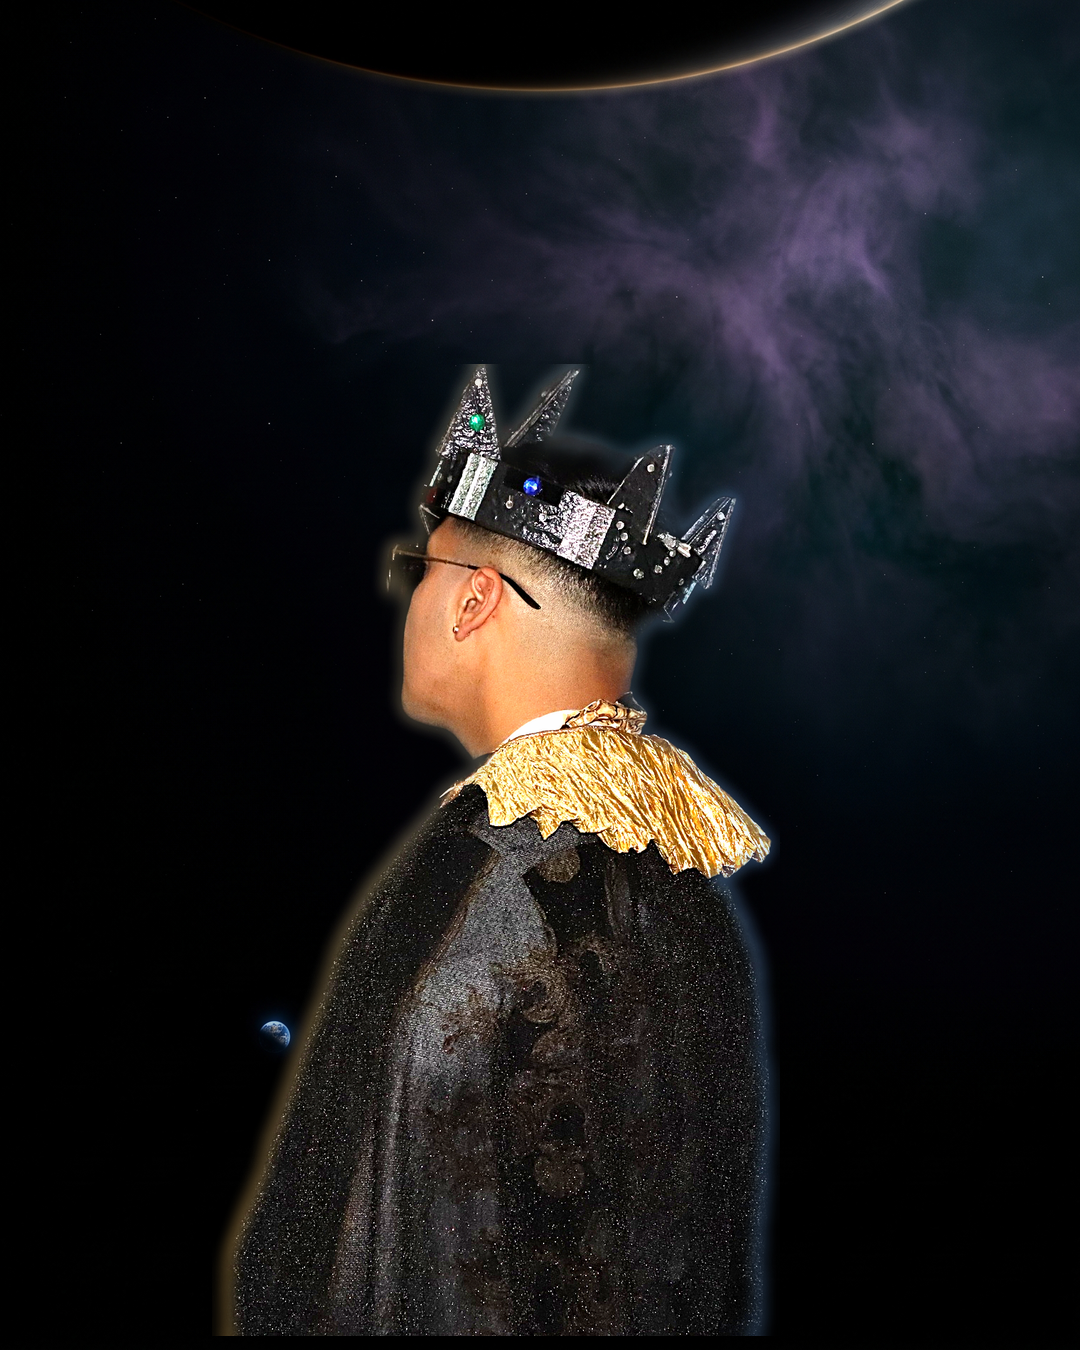
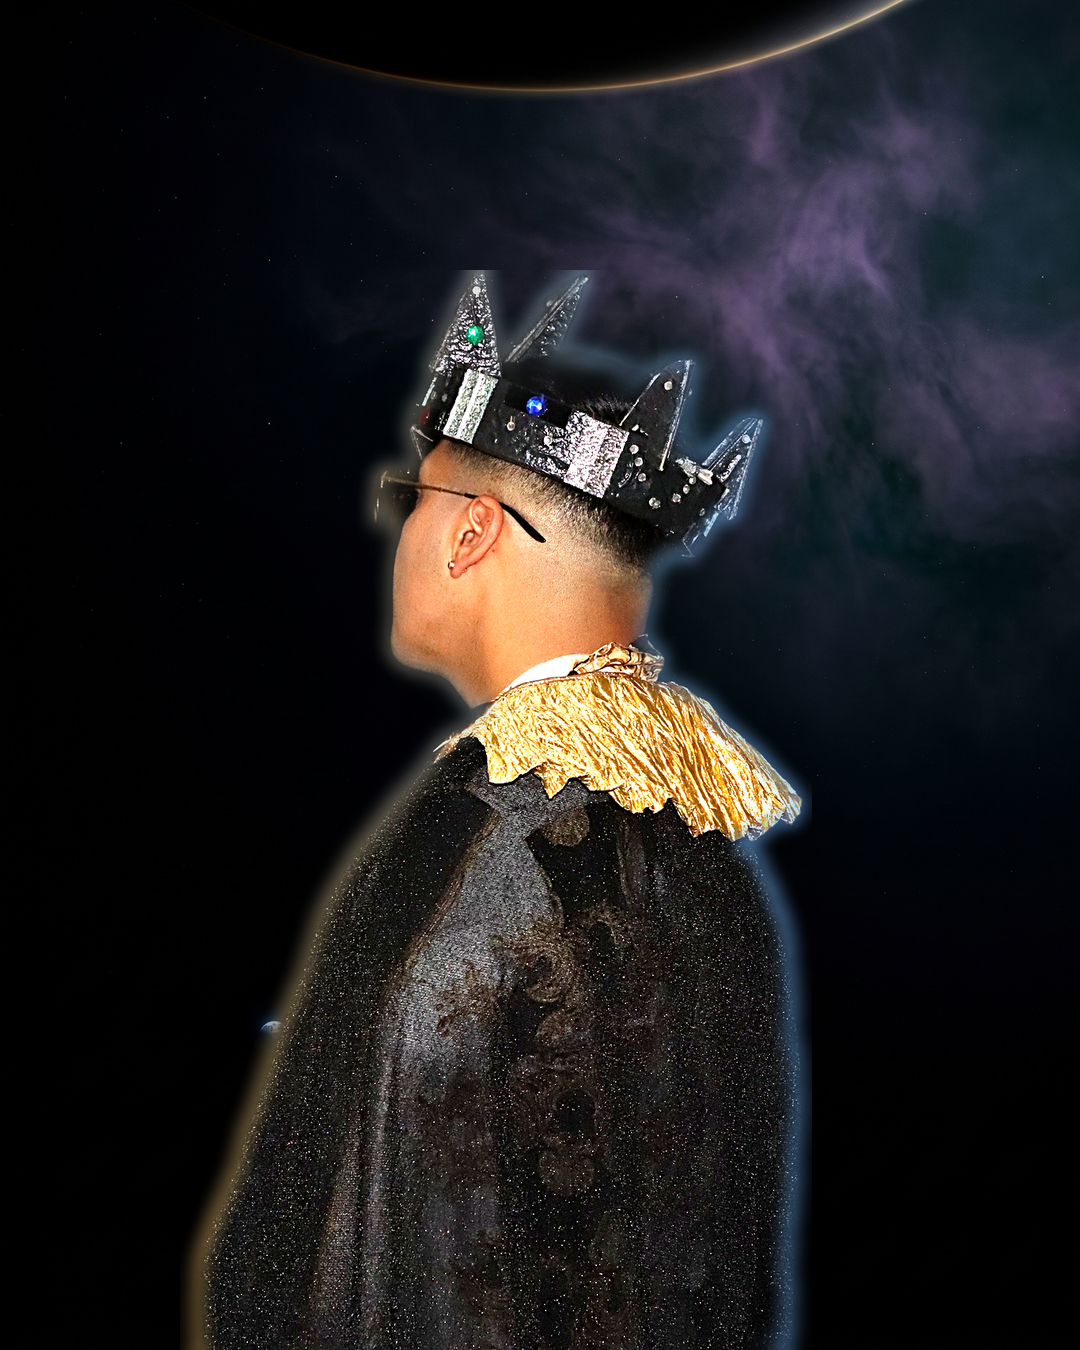
Fija el estilo aprobado de World King y da ritmo al feed
Se consolida la dirección que aprobó el cliente: negro dominante,
nebulosa apenas insinuada, y luz de estudio de dos fuentes — rim dorado
cálido por la izquierda y azul frío por la derecha, con el azul algo más
fuerte. El sujeto va grande, con la cara en el tercio superior.

La lógica de composición sale de build.js a componer.py, para poder
regenerar todas las piezas con el mismo tratamiento sin tocar el
generador de gráficas.

En la grilla la misma foto aparecía en cuatro piezas seguidas. Ahora
cada post lleva su propia imagen y el feed alterna artista y espacio,
con fondos sin figura que dan respiro entre los retratos.

Vuelve el copy aprobado en la pieza de llegada.

Changed region(s): [[0.1528, 0.1867, 0.7639, 1.0]]

diff --git a/produccion-contenido/clientes/world-king/graficas/build.js b/produccion-contenido/clientes/world-king/graficas/build.js
@@ -62,15 +62,15 @@ const piezas = [
     tipo: 'hero',
     imagen: 'wk-retrato.png',
     sobre: 'TRANSMISIÓN DESDE LA EXÓSFERA',
-    titulo: 'VENGO DE<br><span class="oro">MÁS LEJOS</span>',
-    texto: 'De lo que te imaginas.<br>Y crucé todo eso por esto.',
+    titulo: 'NO SOY<br><span class="oro">DE ACÁ</span>',
+    texto: 'Bajé a traer algo que todavía no existe.',
     pie: `${EP} · ${FECHA_LANZAMIENTO}`,
   },
   {
     id: 'post-02-genero-nuevo',
     w: 1080, h: 1350,
     tipo: 'hero',
-    imagen: 'fondo-espacio.png',
+    imagen: 'fondo-ondas.png',
     sobre: 'LO QUE TRAIGO',
     titulo: 'UN SONIDO<br><span class="oro">QUE NO ES<br>DE ACÁ</span>',
     texto: 'Reguetón old school y percusión afro en vivo.<br>Nunca lo escuchaste así.',
@@ -80,7 +80,7 @@ const piezas = [
     id: 'post-03-sonido',
     w: 1080, h: 1350,
     tipo: 'espectro',
-    imagen: 'fondo-espacio.png',
+    imagen: 'fondo-estelar.png',
     titulo: 'SONIDOS<br><span class="oro">TR<span class="tres">3</span>E</span><br>DIMENSIONAL',
     texto: 'Ponte los audífonos.<br>El sonido te da la vuelta.',
     pie: FORMATO_AUDIO,
@@ -167,7 +167,7 @@ const piezas = [
     id: 'reel-03-frecuencias',
     w: 1080, h: 1920,
     tipo: 'reel',
-    imagen: 'fondo-story.png',
+    imagen: 'wk-story-cetro.png',
     n: '03',
     sobre: 'FRECUENCIAS ANÓMALAS',
     titulo: 'NO<br><span class="oro">SOY</span><br>HUMANO',
@@ -177,7 +177,7 @@ const piezas = [
     id: 'reel-04-transmision',
     w: 1080, h: 1920,
     tipo: 'reel',
-    imagen: 'fondo-espacio.png',
+    imagen: 'wk-terrestre-story.png',
     n: '04',
     sobre: 'TRANSMISIÓN DIRECTA',
     titulo: 'SINCRONIZA<br><span class="oro">TU FRECUENCIA</span>',
@@ -189,7 +189,7 @@ const piezas = [
     id: 'historia-02-pregunta',
     w: 1080, h: 1920,
     tipo: 'historia',
-    imagen: 'exo-pregunta.png',
+    imagen: 'fondo-story.png',
     sobre: 'CAJA DE INTERACCIÓN',
     titulo: '¿QUÉ<br><span class="oro">MENSAJE</span><br>ME LLEVO?',
     texto: 'De la Tierra a la exósfera.',
@@ -200,7 +200,7 @@ const piezas = [
     id: 'historia-03-bts',
     w: 1080, h: 1920,
     tipo: 'historia',
-    imagen: 'exo-estudio.png',
+    imagen: 'fondo-story.png',
     sobre: 'DETRÁS DE LA SEÑAL',
     titulo: 'ASÍ<br><span class="oro">SUENA</span><br>ADENTRO',
     texto: `${FORMATO_AUDIO}`,
@@ -211,7 +211,7 @@ const piezas = [
     id: 'historia-04-outfit',
     w: 1080, h: 1920,
     tipo: 'historia',
-    imagen: 'detalle-corona.png',
+    imagen: 'wk-story-cetro.png',
     sobre: 'ANATOMÍA DEL EQUIPO',
     titulo: 'LA<br><span class="oro">CORONA</span>',
     texto: 'Equipado para la gravedad terrestre.',
@@ -222,7 +222,7 @@ const piezas = [
     id: 'historia-04b-outfit-ankh',
     w: 1080, h: 1920,
     tipo: 'historia',
-    imagen: 'detalle-ankh.png',
+    imagen: 'wk-terrestre-story.png',
     sobre: 'ANATOMÍA DEL EQUIPO',
     titulo: 'EL<br><span class="oro">ANKH</span>',
     texto: 'Vida eterna. No es adorno.',
@@ -233,7 +233,7 @@ const piezas = [
     id: 'historia-05-invocacion',
     w: 1080, h: 1920,
     tipo: 'historia',
-    imagen: 'exo-vinilo.png',
+    imagen: 'fondo-story.png',
     sobre: 'INVOCACIÓN EN VIVO',
     titulo: 'DALE<br><span class="oro">PLAY</span>',
     texto: `${SINGLE} · ya disponible`,

diff --git a/produccion-contenido/clientes/world-king/componer.py b/produccion-contenido/clientes/world-king/componer.py
@@ -1,0 +1,97 @@
+#!/usr/bin/env python3
+"""
+Compositor de World King — ESTILO APROBADO.
+
+Recorta al artista de sus fotos de estudio y lo pone sobre fondo espacial con
+la firma lumínica de la marca: rim DORADO cálido por la izquierda, AZUL frío
+por la derecha, sobre negro dominante con nebulosa apenas insinuada.
+
+  python3 componer.py
+"""
+from PIL import Image, ImageFilter, ImageEnhance, ImageChops
+
+V, F = 'visuales/', 'fotos/'
+
+# Firma lumínica de la marca. Cambiar esto cambia el look de todas las piezas.
+LUZ_CALIDA = (255, 198, 104)
+LUZ_FRIA   = (108, 178, 255)
+FUERZA_CALIDA, FUERZA_FRIA = 140, 165   # el rim azul manda, como en la referencia
+
+
+def sin_bandas(im):
+    """El generador a veces devuelve letterbox blanco; se recorta."""
+    g = im.convert('L'); w, h = g.size; px = g.load()
+    paso_x = max(1, w // 60); paso_y = max(1, h // 60)
+    clara_fila = lambda y: sum(px[x, y] for x in range(0, w, paso_x)) / len(range(0, w, paso_x)) > 232
+    clara_col  = lambda x: sum(px[x, y] for y in range(0, h, paso_y)) / len(range(0, h, paso_y)) > 232
+    t = 0
+    while t < h - 1 and clara_fila(t): t += 1
+    b = h - 1
+    while b > t and clara_fila(b): b -= 1
+    l = 0
+    while l < w - 1 and clara_col(l): l += 1
+    r = w - 1
+    while r > l and clara_col(r): r -= 1
+    return im.crop((l, t, r + 1, b + 1))
+
+
+def realzar(fg):
+    """Las fotos de estudio vienen subexpuestas: se levantan sin saturar."""
+    rgb, a = fg.convert('RGB'), fg.split()[3]
+    rgb = ImageEnhance.Brightness(rgb).enhance(1.32)
+    rgb = ImageEnhance.Contrast(rgb).enhance(1.20)
+    rgb = ImageEnhance.Color(rgb).enhance(1.05)
+    rgb = rgb.filter(ImageFilter.UnsharpMask(3, 62, 3))
+    o = rgb.convert('RGBA'); o.putalpha(a); return o
+
+
+def luz_borde(fg, color, lado, fuerza):
+    """Rim light: el contorno recibe la luz de la escena y deja de verse recortado."""
+    a = fg.split()[3]
+    b = ImageChops.subtract(a, a.filter(ImageFilter.MinFilter(11)))
+    b = b.filter(ImageFilter.GaussianBlur(10)).point(lambda v: min(255, int(v * fuerza / 100)))
+    capa = Image.new('RGBA', fg.size, color + (0,)); capa.putalpha(b)
+    g = Image.linear_gradient('L').rotate(90, expand=True).resize(fg.size)
+    if lado == 'izq': g = g.transpose(Image.FLIP_LEFT_RIGHT)
+    capa.putalpha(ImageChops.multiply(capa.split()[3], g))
+    return Image.alpha_composite(fg, capa)
+
+
+def componer(fondo, recorte, salida, W=1080, H=1350, escala=.9, dx=.5, dy=1.0):
+    bg = sin_bandas(Image.open(V + fondo).convert('RGBA'))
+    r = max(W / bg.width, H / bg.height)
+    bg = bg.resize((int(bg.width * r), int(bg.height * r)), Image.LANCZOS)
+    bg = bg.crop(((bg.width - W) // 2, (bg.height - H) // 2,
+                  (bg.width - W) // 2 + W, (bg.height - H) // 2 + H))
+
+    fg = Image.open(F + recorte).convert('RGBA')
+    fg = realzar(fg.crop(fg.getbbox()))
+    fg = luz_borde(fg, LUZ_CALIDA, 'izq', FUERZA_CALIDA)
+    fg = luz_borde(fg, LUZ_FRIA,   'der', FUERZA_FRIA)
+
+    nh = int(H * escala); nw = int(fg.width * nh / fg.height)
+    fg = fg.resize((nw, nh), Image.LANCZOS)
+    x, y = int(W * dx) - nw // 2, int(H * dy) - nh
+
+    halo = Image.new('RGBA', bg.size, (0, 0, 0, 0))
+    s = Image.new('RGBA', fg.size, (0, 0, 0, 0)); s.paste((0, 0, 0, 215), (0, 0), fg.split()[3])
+    halo.paste(s, (x, y + 18), s)
+    bg = Image.alpha_composite(bg, halo.filter(ImageFilter.GaussianBlur(55)))
+
+    o = Image.new('RGBA', bg.size); o.paste(bg, (0, 0)); o.paste(fg, (x, y), fg)
+    o.convert('RGB').save(V + salida, quality=95)
+    print(f'  {salida:28} {W}x{H}')
+
+
+if __name__ == '__main__':
+    print('\n  WORLD KING · composiciones\n')
+    # El sujeto va grande, con la cara en el tercio superior.
+    componer('fondo-retrato.png', 'recorte-rey-capa.png',    'wk-retrato.png',        escala=.94, dy=1.04)
+    componer('fondo-espacio.png', 'recorte-rey-cetro.png',   'wk-cetro.png',          escala=.88, dy=1.04)
+    componer('fondo-espacio.png', 'recorte-rey-espaldas.png','wk-espaldas.png',       escala=.80, dy=1.0, dx=.46)
+    componer('fondo-retrato.png', 'recorte-terrestre.png',   'wk-terrestre.png',      escala=.90, dy=1.03)
+    componer('fondo-story.png',   'recorte-rey-capa.png',    'wk-story.png',          1080, 1920, .66, dy=1.0)
+    componer('fondo-story.png',   'recorte-rey-cetro.png',   'wk-story-cetro.png',    1080, 1920, .62, dy=1.0)
+    componer('fondo-story.png',   'recorte-terrestre.png',   'wk-terrestre-story.png',1080, 1920, .64, dy=1.0)
+    componer('fondo-minimo.png',  'recorte-rey-capa.png',    'wk-minimo.png',         escala=.92, dy=1.03)
+    print()
